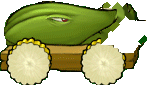
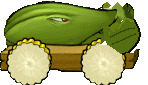
v3.24.2 玉米加农炮：空炮口叶壳封堵 + 立绘收窄后移修占格观感
- 空炮口大洞修补：用同株深橄榄叶壳样式封口（填充+叶脉+原版近黑描边），
  清除悬空碎叶与草地污染像素；卡面上下双窗同步重建
- 立绘显示宽 150→132 并整体后移 8px（渲染层 translateX，逻辑坐标/占格不变），
  yOffset 10→15 补偿轮子贴地；两格 160px 内留边，不再有占三格观感
- 玉米炮弹挂点/发射起点随炮口同步 (x+36, yOffset-12/-16)，overlay 缩放 43×48
- bump ?v= 全量刷新（asset 1790318035），puppeteer 回归 12/12 通过

diff --git a/pvz-web/js/GameLoop.js b/pvz-web/js/GameLoop.js
@@ -1008,44 +1008,44 @@ class Game {
     initUI() {
         // Just define the seeds, don't populate the top bar yet
         this.seeds = [
-            { type: 'sunflower', cost: 50, cooldown: 7.5, img: 'assets/images/Card/Plants/SunFlower.png?v=1790311586' },
-            { type: 'twinsunflower', cost: 150, cooldown: 50, img: 'assets/images/Card/Plants/TwinSunflower.png?v=1790311586' },
-            { type: 'sunshroom', cost: 25, cooldown: 7.5, img: 'assets/images/Card/Plants/SunShroom.png?v=1790311586' },
-            { type: 'peashooter', cost: 100, cooldown: 7.5, img: 'assets/images/Card/Plants/Peashooter.png?v=1790311586' },
-            { type: 'repeater', cost: 200, cooldown: 7.5, img: 'assets/images/Card/Plants/Repeater.png?v=1790311586' },
-            { type: 'threepeater', cost: 300, cooldown: 7.5, img: 'assets/images/Card/Plants/Threepeater.png?v=1790311586' },
-            { type: 'gatlingpea', cost: 250, cooldown: 50, img: 'assets/images/Card/Plants/GatlingPea.png?v=1790311586' },
-            { type: 'snowpea', cost: 175, cooldown: 7.5, img: 'assets/images/Card/Plants/SnowPea.png?v=1790311586' },
-            { type: 'splitpea', cost: 125, cooldown: 7.5, img: 'assets/images/Card/Plants/SplitPea.png?v=1790311586' },
-            { type: 'torchwood', cost: 175, cooldown: 7.5, img: 'assets/images/Card/Plants/Torchwood.png?v=1790311586' },
-            { type: 'wallnut', cost: 50, cooldown: 30, img: 'assets/images/Card/Plants/WallNut.png?v=1790311586' },
-            { type: 'cherrybomb', cost: 150, cooldown: 50, img: 'assets/images/Card/Plants/CherryBomb.png?v=1790311586' },            { type: 'squash', cost: 50, cooldown: 30, img: 'assets/images/Card/Plants/Squash.png?v=1790311586' },
-            { type: 'jalapeno', cost: 125, cooldown: 50, img: 'assets/images/Card/Plants/Jalapeno.png?v=1790311586' },
-            { type: 'potatomine', cost: 25, cooldown: 30, img: 'assets/images/Card/Plants/PotatoMine.png?v=1790311586' },
-            { type: 'chomper', cost: 150, cooldown: 7.5, img: 'assets/images/Card/Plants/Chomper.png?v=1790311586' },
-            { type: 'tallnut', cost: 125, cooldown: 30, img: 'assets/images/Card/Plants/TallNut.png?v=1790311586' },
-            { type: 'puffshroom', cost: 0, cooldown: 7.5, img: 'assets/images/Card/Plants/PuffShroom.png?v=1790311586' },
-            { type: 'fumeshroom', cost: 75, cooldown: 7.5, img: 'assets/images/Card/Plants/FumeShroom.png?v=1790311586' },
-            { type: 'scaredyshroom', cost: 25, cooldown: 7.5, img: 'assets/images/Card/Plants/ScaredyShroom.png?v=1790311586' },
-            { type: 'gloomshroom', cost: 150, cooldown: 7.5, img: 'assets/images/Card/Plants/GloomShroom.png?v=1790311586' },
-            { type: 'spikerock', cost: 125, cooldown: 7.5, img: 'assets/images/Card/Plants/Spikerock.png?v=1790311586' },
-            { type: 'cattail', cost: 225, cooldown: 7.5, img: 'assets/images/Card/Plants/Cattail.png?v=1790311586' },
-            { type: 'melonpult', cost: 300, cooldown: 7.5, img: 'assets/images/Card/Plants/MelonPult.png?v=1790311586' },{ type: 'iceshroom', cost: 75, cooldown: 50, img: 'assets/images/Card/Plants/IceShroom.png?v=1790311586' },
-            { type: 'doomshroom', cost: 125, cooldown: 50, img: 'assets/images/Card/Plants/DoomShroom.png?v=1790311586' },
-            { type: 'spikeweed', cost: 100, cooldown: 7.5, img: 'assets/images/Card/Plants/Spikeweed.png?v=1790311586' },
-            { type: 'garlic', cost: 50, cooldown: 7.5, img: 'assets/images/Card/Plants/Garlic.png?v=1790311586' },
+            { type: 'sunflower', cost: 50, cooldown: 7.5, img: 'assets/images/Card/Plants/SunFlower.png?v=1790318035' },
+            { type: 'twinsunflower', cost: 150, cooldown: 50, img: 'assets/images/Card/Plants/TwinSunflower.png?v=1790318035' },
+            { type: 'sunshroom', cost: 25, cooldown: 7.5, img: 'assets/images/Card/Plants/SunShroom.png?v=1790318035' },
+            { type: 'peashooter', cost: 100, cooldown: 7.5, img: 'assets/images/Card/Plants/Peashooter.png?v=1790318035' },
+            { type: 'repeater', cost: 200, cooldown: 7.5, img: 'assets/images/Card/Plants/Repeater.png?v=1790318035' },
+            { type: 'threepeater', cost: 300, cooldown: 7.5, img: 'assets/images/Card/Plants/Threepeater.png?v=1790318035' },
+            { type: 'gatlingpea', cost: 250, cooldown: 50, img: 'assets/images/Card/Plants/GatlingPea.png?v=1790318035' },
+            { type: 'snowpea', cost: 175, cooldown: 7.5, img: 'assets/images/Card/Plants/SnowPea.png?v=1790318035' },
+            { type: 'splitpea', cost: 125, cooldown: 7.5, img: 'assets/images/Card/Plants/SplitPea.png?v=1790318035' },
+            { type: 'torchwood', cost: 175, cooldown: 7.5, img: 'assets/images/Card/Plants/Torchwood.png?v=1790318035' },
+            { type: 'wallnut', cost: 50, cooldown: 30, img: 'assets/images/Card/Plants/WallNut.png?v=1790318035' },
+            { type: 'cherrybomb', cost: 150, cooldown: 50, img: 'assets/images/Card/Plants/CherryBomb.png?v=1790318035' },            { type: 'squash', cost: 50, cooldown: 30, img: 'assets/images/Card/Plants/Squash.png?v=1790318035' },
+            { type: 'jalapeno', cost: 125, cooldown: 50, img: 'assets/images/Card/Plants/Jalapeno.png?v=1790318035' },
+            { type: 'potatomine', cost: 25, cooldown: 30, img: 'assets/images/Card/Plants/PotatoMine.png?v=1790318035' },
+            { type: 'chomper', cost: 150, cooldown: 7.5, img: 'assets/images/Card/Plants/Chomper.png?v=1790318035' },
+            { type: 'tallnut', cost: 125, cooldown: 30, img: 'assets/images/Card/Plants/TallNut.png?v=1790318035' },
+            { type: 'puffshroom', cost: 0, cooldown: 7.5, img: 'assets/images/Card/Plants/PuffShroom.png?v=1790318035' },
+            { type: 'fumeshroom', cost: 75, cooldown: 7.5, img: 'assets/images/Card/Plants/FumeShroom.png?v=1790318035' },
+            { type: 'scaredyshroom', cost: 25, cooldown: 7.5, img: 'assets/images/Card/Plants/ScaredyShroom.png?v=1790318035' },
+            { type: 'gloomshroom', cost: 150, cooldown: 7.5, img: 'assets/images/Card/Plants/GloomShroom.png?v=1790318035' },
+            { type: 'spikerock', cost: 125, cooldown: 7.5, img: 'assets/images/Card/Plants/Spikerock.png?v=1790318035' },
+            { type: 'cattail', cost: 225, cooldown: 7.5, img: 'assets/images/Card/Plants/Cattail.png?v=1790318035' },
+            { type: 'melonpult', cost: 300, cooldown: 7.5, img: 'assets/images/Card/Plants/MelonPult.png?v=1790318035' },{ type: 'iceshroom', cost: 75, cooldown: 50, img: 'assets/images/Card/Plants/IceShroom.png?v=1790318035' },
+            { type: 'doomshroom', cost: 125, cooldown: 50, img: 'assets/images/Card/Plants/DoomShroom.png?v=1790318035' },
+            { type: 'spikeweed', cost: 100, cooldown: 7.5, img: 'assets/images/Card/Plants/Spikeweed.png?v=1790318035' },
+            { type: 'garlic', cost: 50, cooldown: 7.5, img: 'assets/images/Card/Plants/Garlic.png?v=1790318035' },
             // ===== v3.6.0 经典模式新增 4 植物（数值取 PVZ1 原版；融合模式选卡仍过滤为 15 基础牌，不受影响）=====
-            { type: 'wintermelon', cost: 200, cooldown: 7.5, img: 'assets/images/Card/Plants/WinterMelon.png?v=1790311586' },
-            { type: 'starfruit', cost: 125, cooldown: 7.5, img: 'assets/images/Card/Plants/Starfruit.png?v=1790311586' },
-            { type: 'hypnoshroom', cost: 75, cooldown: 30, img: 'assets/images/Card/Plants/HypnoShroom.png?v=1790311586' },
-            { type: 'pumpkinhead', cost: 125, cooldown: 30, img: 'assets/images/Card/Plants/PumpkinHead.png?v=1790311586' },
+            { type: 'wintermelon', cost: 200, cooldown: 7.5, img: 'assets/images/Card/Plants/WinterMelon.png?v=1790318035' },
+            { type: 'starfruit', cost: 125, cooldown: 7.5, img: 'assets/images/Card/Plants/Starfruit.png?v=1790318035' },
+            { type: 'hypnoshroom', cost: 75, cooldown: 30, img: 'assets/images/Card/Plants/HypnoShroom.png?v=1790318035' },
+            { type: 'pumpkinhead', cost: 125, cooldown: 30, img: 'assets/images/Card/Plants/PumpkinHead.png?v=1790318035' },
             // ===== v3.10.0 投手两兄弟，v3.11.0 调价（破甲 + 黄油定身很值钱，不再按原版 100 阳光卖）=====
             // 抛射物可破甲：越过路障/铁桶/报纸/铁门直接打僵尸本体，护甲不脱落。
             // 玉米投手另有 20% 概率投出黄油（定身 3 秒）。
-            { type: 'cabbagepult', cost: 150, cooldown: 7.5, img: 'assets/images/Card/Plants/CabbagePult.png?v=1790311586' },
-            { type: 'kernelpult', cost: 175, cooldown: 7.5, img: 'assets/images/Card/Plants/KernelPult.png?v=1790311586' },
+            { type: 'cabbagepult', cost: 150, cooldown: 7.5, img: 'assets/images/Card/Plants/CabbagePult.png?v=1790318035' },
+            { type: 'kernelpult', cost: 175, cooldown: 7.5, img: 'assets/images/Card/Plants/KernelPult.png?v=1790318035' },
             // ===== v3.24.0 植物盲盒：500 阳光，种下随机开出"经典冒险+融合进化"全植物池中的一株 =====
-            { type: 'plantbox', cost: 500, cooldown: 5, img: 'assets/images/Card/Plants/PlantBox.png?v=1790311586' }
+            { type: 'plantbox', cost: 500, cooldown: 5, img: 'assets/images/Card/Plants/PlantBox.png?v=1790318035' }
         ];
         // The top bar will be populated in startGame() after selection
     }
@@ -1087,7 +1087,7 @@ class Game {
             { a: 'snowpea', b: 'wallnut', result: '寒冰坚果', img: 'assets/images/Plants/WallNut/WallNut.gif', filter: 'hue-rotate(180deg) saturate(1.5) brightness(1.2)', css: false },
             { a: 'peashooter', b: 'cherrybomb', result: '樱桃射手', img: 'assets/images/Plants/Peashooter/Peashooter.gif', filter: 'hue-rotate(-45deg) saturate(2.0)', css: false },
             { a: 'sunflower', b: 'doomshroom', result: '毁灭向日葵', img: 'assets/images/Plants/SunFlower/SunFlower1.gif', filter: 'grayscale(0.8) brightness(0.6) sepia(1) hue-rotate(240deg) saturate(3)', css: false },
-            { a: 'melonpult', b: 'iceshroom', result: '冰西瓜投手', img: 'assets/images/Plants/WinterMelon/WinterMelon.png?v=1790311586', css: false },
+            { a: 'melonpult', b: 'iceshroom', result: '冰西瓜投手', img: 'assets/images/Plants/WinterMelon/WinterMelon.png?v=1790318035', css: false },
             { a: 'repeater', b: 'spikeweed', result: '猫尾草', img: 'assets/images/Plants/Cattail/Cattail.gif', css: false },
             { a: 'fumeshroom', b: 'fumeshroom', result: '忧郁菇', img: 'assets/images/Plants/GloomShroom/GloomShroom.gif', css: false },
             { a: 'spikeweed', b: 'spikeweed', result: '钢地刺', img: 'assets/images/Plants/Spikerock/Spikerock.gif', css: false },
@@ -1097,16 +1097,16 @@ class Game {
             { a: 'splitpea', b: 'sunflower', result: '杨桃', img: 'assets/images/Plants/Starfruit/Starfruit.gif', css: false },
             { a: 'puffshroom', b: 'garlic', result: '魅惑菇', img: 'assets/images/Plants/HypnoShroom/HypnoShroom.gif', css: false },
             { a: 'wallnut', b: 'tallnut', result: '南瓜壳（可套在任意植物上）', img: 'assets/images/Plants/PumpkinHead/PumpkinHead.gif', css: false },
-            { a: 'melonpult', b: 'cattail', result: '西瓜猫尾草', base: 'assets/images/Plants/Cattail/Cattail.gif', over: 'assets/images/Plants/MelonPult/MelonPult.png?v=1790311586', overTransform: 'translate(-5px, -30px) scale(0.7)' },
-            { a: 'wintermelon', b: 'cattail', result: '冰西瓜猫尾草', base: 'assets/images/Plants/Cattail/Cattail.gif', over: 'assets/images/Plants/WinterMelon/WinterMelon.png?v=1790311586', overTransform: 'translate(-5px, -30px) scale(0.7)' },
+            { a: 'melonpult', b: 'cattail', result: '西瓜猫尾草', base: 'assets/images/Plants/Cattail/Cattail.gif', over: 'assets/images/Plants/MelonPult/MelonPult.png?v=1790318035', overTransform: 'translate(-5px, -30px) scale(0.7)' },
+            { a: 'wintermelon', b: 'cattail', result: '冰西瓜猫尾草', base: 'assets/images/Plants/Cattail/Cattail.gif', over: 'assets/images/Plants/WinterMelon/WinterMelon.png?v=1790318035', overTransform: 'translate(-5px, -30px) scale(0.7)' },
             // ===== v3.10.0 以卷心菜投手 / 玉米投手为基础的新融合 =====
             // v3.11.0：下面两条的 overClip / overTransform 与 Plant.js 内的实机分支**完全同步**
             // （此前图鉴写的是旧的"左上角对齐 + 整块上移"版本，与实机不是同一套，图鉴和游戏里长得不一样）
-            { a: 'cabbagepult', b: 'kernelpult', result: '双料投手（3/4 投卷心菜、1/4 投黄油定身 3 秒）', base: 'assets/images/Plants/KernelPult/KernelPult.png?v=1790311586', over: 'assets/images/Plants/CabbagePult/CabbagePult.png?v=1790311586', overClip: 'polygon(0 0, 48% 0, 48% 50%, 0 50%)', overTransform: 'translate(37px, 8px)' },
-            { a: 'cabbagepult', b: 'wallnut', result: '卷心菜堡垒（坚果肉盾 + 继续投掷，4000 耐久）', base: 'assets/images/Plants/WallNut/WallNut.gif', over: 'assets/images/Plants/CabbagePult/CabbagePult.png?v=1790311586', overClip: 'polygon(0 0, 46% 0, 46% 46%, 0 46%)', overTransform: 'translate(26px, -4px)' },
-            { a: 'cabbagepult', b: 'iceshroom', result: '寒冰卷心菜（破甲 + 命中减速 10 秒）', img: 'assets/images/Plants/CabbagePult/CabbagePult.png?v=1790311586', filter: 'brightness(112%) hue-rotate(120deg) saturate(1.7)', css: false },
-            { a: 'kernelpult', b: 'jalapeno', result: '爆米花投手（破甲 + 命中 3×3 溅射）', img: 'assets/images/Plants/KernelPult/KernelPult.png?v=1790311586', filter: 'hue-rotate(-18deg) saturate(1.9) brightness(1.18)', css: false },
-            { a: 'kernelpult', b: 'kernelpult', result: '玉米加农炮（需两株横向相邻 + 第三株融合；占两格，充能后点击开镜、按 M 发射）', img: 'assets/images/Plants/CobCannon/CobCannon.png?v=1790311586', css: false }
+            { a: 'cabbagepult', b: 'kernelpult', result: '双料投手（3/4 投卷心菜、1/4 投黄油定身 3 秒）', base: 'assets/images/Plants/KernelPult/KernelPult.png?v=1790318035', over: 'assets/images/Plants/CabbagePult/CabbagePult.png?v=1790318035', overClip: 'polygon(0 0, 48% 0, 48% 50%, 0 50%)', overTransform: 'translate(37px, 8px)' },
+            { a: 'cabbagepult', b: 'wallnut', result: '卷心菜堡垒（坚果肉盾 + 继续投掷，4000 耐久）', base: 'assets/images/Plants/WallNut/WallNut.gif', over: 'assets/images/Plants/CabbagePult/CabbagePult.png?v=1790318035', overClip: 'polygon(0 0, 46% 0, 46% 46%, 0 46%)', overTransform: 'translate(26px, -4px)' },
+            { a: 'cabbagepult', b: 'iceshroom', result: '寒冰卷心菜（破甲 + 命中减速 10 秒）', img: 'assets/images/Plants/CabbagePult/CabbagePult.png?v=1790318035', filter: 'brightness(112%) hue-rotate(120deg) saturate(1.7)', css: false },
+            { a: 'kernelpult', b: 'jalapeno', result: '爆米花投手（破甲 + 命中 3×3 溅射）', img: 'assets/images/Plants/KernelPult/KernelPult.png?v=1790318035', filter: 'hue-rotate(-18deg) saturate(1.9) brightness(1.18)', css: false },
+            { a: 'kernelpult', b: 'kernelpult', result: '玉米加农炮（需两株横向相邻 + 第三株融合；占两格，充能后点击开镜、按 M 发射）', img: 'assets/images/Plants/CobCannon/CobCannon.png?v=1790318035', css: false }
         ];
         
         const list = document.getElementById('recipe-list');
@@ -1137,8 +1137,8 @@ class Game {
                     'fumeshroom': 'assets/images/Plants/FumeShroom/FumeShroom.gif',
                     'spikeweed': 'assets/images/Plants/Spikeweed/Spikeweed.gif',
                     'tallnut': 'assets/images/Plants/TallNut/TallNut.gif',
-                    'melonpult': 'assets/images/Plants/MelonPult/MelonPult.png?v=1790311586',
-                    'wintermelon': 'assets/images/Plants/WinterMelon/WinterMelon.png?v=1790311586',
+                    'melonpult': 'assets/images/Plants/MelonPult/MelonPult.png?v=1790318035',
+                    'wintermelon': 'assets/images/Plants/WinterMelon/WinterMelon.png?v=1790318035',
                     'cattail': 'assets/images/Plants/Cattail/Cattail.gif',
                     'gloomshroom': 'assets/images/Plants/GloomShroom/GloomShroom.gif',
                     'spikerock': 'assets/images/Plants/Spikerock/Spikerock.gif',
@@ -1148,8 +1148,8 @@ class Game {
                     'starfruit': 'assets/images/Plants/Starfruit/Starfruit.gif',
                     'hypnoshroom': 'assets/images/Plants/HypnoShroom/HypnoShroom.gif',
                     'pumpkinhead': 'assets/images/Plants/PumpkinHead/PumpkinHead.gif',
-                    'cabbagepult': 'assets/images/Plants/CabbagePult/CabbagePult.png?v=1790311586',
-                    'kernelpult': 'assets/images/Plants/KernelPult/KernelPult.png?v=1790311586'
+                    'cabbagepult': 'assets/images/Plants/CabbagePult/CabbagePult.png?v=1790318035',
+                    'kernelpult': 'assets/images/Plants/KernelPult/KernelPult.png?v=1790318035'
                 };
                 return map[t] || '';
             };
@@ -2125,7 +2125,7 @@ class Game {
                           : vType === 'zombie' ? 'Vase_Zombie.png'
                           : 'Vase_Question.png';
             const img = document.createElement('img');
-            img.src = 'assets/images/Vase/' + sprite + '?v=1790311586'; // v= 占位,bump_version 替换为新 cache-buster
+            img.src = 'assets/images/Vase/' + sprite + '?v=1790318035'; // v= 占位,bump_version 替换为新 cache-buster
             img.className = 'entity vase-entity';
             img.style.pointerEvents = 'none';
             if (isGolden) img.style.filter = 'drop-shadow(0 0 7px rgba(255, 210, 60, 0.95))'; // 金罐常驻金光
@@ -2192,7 +2192,7 @@ class Game {
                     v.pumpkinHp = 4000;
                     v.pumpkinMaxHp = 4000;
                     const ov = document.createElement('img');
-                    ov.src = 'assets/images/Plants/PumpkinHead/shield_full.png?v=1790311586'; // v= 占位,bump_version 替换
+                    ov.src = 'assets/images/Plants/PumpkinHead/shield_full.png?v=1790318035'; // v= 占位,bump_version 替换
                     ov.className = 'entity vase-pumpkin';
                     ov.style.pointerEvents = 'none';
                     ov.style.width = '97px';
@@ -2209,7 +2209,7 @@ class Game {
                     v.pumpkinEl = ov;
                     // v3.13.2：背壁层画在罐子身后，壳顶洞口里看到的是南瓜内壁而非草地
                     const back = document.createElement('img');
-                    back.src = 'assets/images/Plants/PumpkinHead/Pumpkin_back.gif?v=1790311586'; // v= 占位,bump_version 替换
+                    back.src = 'assets/images/Plants/PumpkinHead/Pumpkin_back.gif?v=1790318035'; // v= 占位,bump_version 替换
                     back.className = 'entity vase-pumpkin-back';
                     back.style.pointerEvents = 'none';
                     back.style.width = '97px';

diff --git a/pvz-web/js/entities/Plant.js b/pvz-web/js/entities/Plant.js
@@ -154,34 +154,36 @@ class Plant extends Entity {
             stat.hp = 300;
             stat.fireRate = 1.0;
             stat.fireTimer = 0;
-            stat.src = 'assets/images/Plants/MelonPult/MelonPult.png?v=1790311586';
+            stat.src = 'assets/images/Plants/MelonPult/MelonPult.png?v=1790318035';
         } else if (type === 'wintermelon') {
             stat.hp = 300;
             stat.fireRate = 1.0;
             stat.fireTimer = 0;
-            stat.src = 'assets/images/Plants/WinterMelon/WinterMelon.png?v=1790311586';
+            stat.src = 'assets/images/Plants/WinterMelon/WinterMelon.png?v=1790318035';
         } else if (type === 'cabbagepult') {
             // 卷心菜投手（v3.10.0）：PVZ1 原版数值——100 阳光 / 40 伤害 / 抛射。
             // 投掷物可"破甲"：越过路障·铁桶·报纸·铁门直接打僵尸本体，护甲不脱落。
             stat.hp = 300;
             stat.fireRate = 1.4;
             stat.fireTimer = 0;
-            stat.src = 'assets/images/Plants/CabbagePult/CabbagePult.png?v=1790311586';
+            stat.src = 'assets/images/Plants/CabbagePult/CabbagePult.png?v=1790318035';
         } else if (type === 'kernelpult') {
             // 玉米投手（v3.10.0）：100 阳光 / 玉米粒 20 伤害；20% 概率改投黄油（40 伤害 + 定身 3 秒）。
             // 与卷心菜投手同享破甲规则。
             stat.hp = 300;
             stat.fireRate = 1.4;
             stat.fireTimer = 0;
-            stat.src = 'assets/images/Plants/KernelPult/KernelPult.png?v=1790311586';
+            stat.src = 'assets/images/Plants/KernelPult/KernelPult.png?v=1790318035';
             stat.butterChance = 0.2;
         } else if (type === 'cobcannon') {
             // 玉米加农炮（v3.24.0）：PVZ1 原版 Cob Cannon——三株玉米投手合体，占两格。
             // 平时嘴里没有炮；充能 25s 结束后嘴里出现玉米炮弹；
             // 点击它出现瞄准镜（跟随鼠标），按 M 键向准星位置发射（见 GameLoop.enterCobAim）。
             stat.hp = 600;
-            stat.src = 'assets/images/Plants/CobCannon/CobCannon.png?v=1790311586';
-            stat.yOffset = 10;   // v3.24.1 立绘 148x85（显示宽150→高86），+10 保持轮子贴地
+            stat.src = 'assets/images/Plants/CobCannon/CobCannon.png?v=1790318035';
+            // v3.24.2 立绘 148×85（炮口已用叶壳封住），显示宽 132——两格 160px 内留边，
+            // 修"看起来占三格"；+15 补偿缩小后轮子离地
+            stat.yOffset = 15;
             stat.chargeTime = 25;
             stat.chargeTimer = 25;
             stat.chargeReady = false;
@@ -208,7 +210,7 @@ class Plant extends Entity {
             // 不攻击、不产太阳，仅在种植瞬间触发 lightUpNeighbors 照亮周围一圈罐子。
             // 0.gif 250×237 透明大画布，比 Plantern.gif 20 帧夜版更适合白天场地。
             stat.hp = 300;
-            stat.src = 'assets/images/Plants/Plantern/0.gif?v=1790311586';
+            stat.src = 'assets/images/Plants/Plantern/0.gif?v=1790318035';
             stat.yOffset = 0;
         }
 
@@ -430,9 +432,12 @@ class Plant extends Entity {
         // 爆炸"的常驻融合植物不自动引爆，只按普通植物运作。
         this.autoExplode = (type === 'cherrybomb' || type === 'jalapeno' || type === 'iceshroom' || type === 'doomshroom' || type === 'fusion_frostbomb');
         
-        // v3.24.0 玉米加农炮：立绘 200×170，显示宽 150（占两格 160px 内）
+        // v3.24.0 玉米加农炮：立绘 148×85，显示宽 132（两格内留边，观感不再越格）
         if (type === 'cobcannon') {
-            this.element.style.width = '150px';
+            this.element.style.width = '132px';
+            // v3.24.2 整体后移 8px：只做渲染偏移，走 setTransform 保留 translate(-50%,-50%) 居中基准，
+            // 逻辑坐标（this.x / 占格 / 判定）不动
+            this.setTransform('translateX(-8px)');
         }
         // 樱桃射手：每 10 次攻击发射一颗小樱桃炸弹（伤害=原版樱桃炸弹一半=900），
         // 普通子弹为樱桃红色。计数从 0 开始。
@@ -697,9 +702,10 @@ class Plant extends Entity {
             if (!this._cobShellEl) {
                 const el = document.createElement('img');
                 // v3.24.1：装填玉米用原版图鉴里抠出的整根玉米（带根部），从炮口探出
-                el.src = 'assets/images/Plants/CobCannon/CobLoaded.png?v=1790311586';
+                el.src = 'assets/images/Plants/CobCannon/CobLoaded.png?v=1790318035';
                 // 裸 img 必须自带 translate(-50%,-50%) 居中基准（与 fusionOverlay 同一教训）
-                el.style.cssText = 'position:absolute;width:48px;height:54px;object-fit:contain;pointer-events:none;transform:translate(-50%,-50%);';
+                // v3.24.2 尺寸随立绘缩放同步：43×48（0.892×）
+                el.style.cssText = 'position:absolute;width:43px;height:48px;object-fit:contain;pointer-events:none;transform:translate(-50%,-50%);';
                 this.game.entityLayer.appendChild(el);
                 this._cobShellEl = el;
             }
@@ -714,7 +720,7 @@ class Plant extends Entity {
         this.chargeReady = false;
         this.chargeTimer = this.chargeTime;
         this._showCobShell(false);
-        const proj = new Projectile(this.game, this.x + 45, this.y + this.yOffset - 18, this.row, 'cob', null);
+        const proj = new Projectile(this.game, this.x + 36, this.y + this.yOffset - 16, this.row, 'cob', null);
         proj.setupLobToPoint(tx, ty);
         this.game.entities.push(proj);
     }
@@ -739,9 +745,9 @@ class Plant extends Entity {
                 }
             }
             if (this._cobShellEl) {
-                // v3.24.1 炮口在炮管右端（立绘 148×85 原版整株），玉米从炮口探出垂下
-                this._cobShellEl.style.left = (this.x + 50) + 'px';
-                this._cobShellEl.style.top = (this.y + this.yOffset - 14) + 'px';
+                // v3.24.2 炮口挂点随立绘收窄+后移同步：叶壳炮口在 (x+36, yOffset-12)
+                this._cobShellEl.style.left = (this.x + 36) + 'px';
+                this._cobShellEl.style.top = (this.y + this.yOffset - 12) + 'px';
                 this._cobShellEl.style.zIndex = String(Math.floor(this.y) + 2);
             }
             return;

diff --git a/pvz-web/js/entities/Projectile.js b/pvz-web/js/entities/Projectile.js
@@ -36,8 +36,8 @@ class Projectile extends Entity {
             // 旧素材是从 MelonPult 整株立绘 flood-fill 出的 50×40 残片 —— 右侧被齐边切掉、
             // 右下被瓜篮挖空，这就是玩家看到的"贴图不完整"。
             this.element.src = type === 'melon'
-                ? 'assets/images/Plants/MelonPult/Melon.png?v=1790311586'
-                : 'assets/images/Plants/MelonPult/WinterMelon.png?v=1790311586';
+                ? 'assets/images/Plants/MelonPult/Melon.png?v=1790318035'
+                : 'assets/images/Plants/MelonPult/WinterMelon.png?v=1790318035';
             this.setTransform();   // v3.10.0：裸写 transform 会顶掉 .entity 的居中基准（贴图偏移半个身位）
             // 注意：不能再加 border-radius:50% —— 那会把完整的椭圆瓜体按内切圆再裁一圈
             this.damage = 60;
@@ -47,7 +47,7 @@ class Projectile extends Entity {
             // 子弹取自 TSR 原版 Projectiles 图集（行标签 "Cabbage"）：30×27 绿色卷心菜。
             // 破甲：命中时以 {pierce:true} 结算 → 越过路障/铁桶/报纸/铁门直接打本体，护甲不脱落
             // （见 CollisionManager.update 与 Zombie.takeDamage）。
-            this.element.src = 'assets/images/Plants/CabbagePult/Cabbage.png?v=1790311586';
+            this.element.src = 'assets/images/Plants/CabbagePult/Cabbage.png?v=1790318035';
             // v3.11.0 尺寸校准：原图 30×27 投出来只有"米粒大"，与立绘篮筐里那颗（实测 35×29）
             // 不成比例 → 放大到 34×31 与篮内弹药等大（用 width/height，不碰 transform 以免顶掉居中基准）
             this.element.style.width = '34px';
@@ -64,7 +64,7 @@ class Projectile extends Entity {
             // ===== v3.10.0 玉米投手 =====
             // 子弹取自原版图集（行标签 "Kernel"）：淡黄玉米粒。同样走抛物线 + 破甲。
             // 爆米花（融合：玉米投手+火爆辣椒）：焦色更大颗，命中 3×3 溅射。
-            this.element.src = 'assets/images/Plants/KernelPult/Kernel.png?v=1790311586';
+            this.element.src = 'assets/images/Plants/KernelPult/Kernel.png?v=1790318035';
             // v3.11.0 尺寸校准：原图 16×17 投出来只有"米粒大"；立绘篮筐里那颗实测 19×20，
             // 所以放大到 22×23 —— 略大于篮内单颗，空中飞行时才有存在感（爆米花更大一颗 30×30）。
             // 用 width/height 而不是 transform，避免顶掉 .entity 的 translate(-50%,-50%) 居中基准。
@@ -86,7 +86,7 @@ class Projectile extends Entity {
             // 原版 Cob（TSR Projectiles 图集行标签 "Cob"）：161×76 完整玉米炮弹。
             // 飞向固定坐标点（不锁定僵尸），落地 3×3 范围 1800 炸弹伤害（见 _cobExplode）。
             // 注意：这里不 setupLob——fireCob() 随后调用 setupLobToPoint(tx,ty) 指定落点。
-            this.element.src = 'assets/images/Plants/CobCannon/Cob.png?v=1790311586';
+            this.element.src = 'assets/images/Plants/CobCannon/Cob.png?v=1790318035';
             this.element.style.width = '56px';
             this.element.style.height = '27px';
             this.element.style.objectFit = 'contain';
@@ -101,7 +101,7 @@ class Projectile extends Entity {
             // 原版图集行标签 "Butter" 的黄油块；命中后定身 3 秒（见 CollisionManager）。
             // v3.11.0：与放大后的玉米粒同一档体积，46×48 → 28×29
             // （用 width/height，不碰 transform，以免破坏 .entity 的 translate(-50%,-50%) 居中基准）。
-            this.element.src = 'assets/images/Plants/KernelPult/Butter.png?v=1790311586';
+            this.element.src = 'assets/images/Plants/KernelPult/Butter.png?v=1790318035';
             this.element.style.width = '28px';
             this.element.style.height = '29px';
             this.element.style.objectFit = 'contain';
@@ -114,12 +114,12 @@ class Projectile extends Entity {
             this.damage = 20;
             this.speed = 400;
         } else if (type === 'cattail_melon') {
-            this.element.src = 'assets/images/Plants/MelonPult/Melon_small.png?v=1790311586';
+            this.element.src = 'assets/images/Plants/MelonPult/Melon_small.png?v=1790318035';
             this.setTransform('scale(0.8)');
             this.damage = 60;
             this.speed = 400;
         } else if (type === 'cattail_wintermelon') {
-            this.element.src = 'assets/images/Plants/MelonPult/WinterMelon_small.png?v=1790311586';
+            this.element.src = 'assets/images/Plants/MelonPult/WinterMelon_small.png?v=1790318035';
             this.setTransform('scale(0.8)');
             this.damage = 60;
             this.speed = 400;

diff --git a/pvz-web/index.html b/pvz-web/index.html
@@ -4,7 +4,7 @@
     <meta charset="UTF-8">
     <meta name="viewport" content="width=device-width, initial-scale=1.0">
     <title>Plants vs Zombies - Web Clone</title>
-    <link rel="stylesheet" href="css/style.css?v=1790311586">
+    <link rel="stylesheet" href="css/style.css?v=1790318035">
 </head>
 <body>
     <div id="game-container">
@@ -336,16 +336,16 @@
                 });
         })();
     </script>
-    <script src="js/InputManager.js?v=1790311586"></script>
-    <script src="js/Board.js?v=1790311586"></script>
-    <script src="js/entities/Entity.js?v=1790311586"></script>
-    <script src="js/entities/Plant.js?v=1790311586"></script>
-    <script src="js/entities/Zombie.js?v=1790311586"></script>
-    <script src="js/entities/Projectile.js?v=1790311586"></script>
-    <script src="js/entities/Sun.js?v=1790311586"></script>
-    <script src="js/managers/WaveManager.js?v=1790311586"></script>
-    <script src="js/managers/CollisionManager.js?v=1790311586"></script>
-    <script src="js/managers/EventManager.js?v=1790311586"></script>
-    <script src="js/GameLoop.js?v=1790311586"></script>
+    <script src="js/InputManager.js?v=1790318035"></script>
+    <script src="js/Board.js?v=1790318035"></script>
+    <script src="js/entities/Entity.js?v=1790318035"></script>
+    <script src="js/entities/Plant.js?v=1790318035"></script>
+    <script src="js/entities/Zombie.js?v=1790318035"></script>
+    <script src="js/entities/Projectile.js?v=1790318035"></script>
+    <script src="js/entities/Sun.js?v=1790318035"></script>
+    <script src="js/managers/WaveManager.js?v=1790318035"></script>
+    <script src="js/managers/CollisionManager.js?v=1790318035"></script>
+    <script src="js/managers/EventManager.js?v=1790318035"></script>
+    <script src="js/GameLoop.js?v=1790318035"></script>
 </body>
 </html>

diff --git a/pvz-web/js/InputManager.js b/pvz-web/js/InputManager.js
@@ -206,7 +206,7 @@ class InputManager {
 
             // v3.24.0 植物盲盒：拖拽图直接用原版问号罐
             if (type === 'plantbox') {
-                this.dragGhost.style.backgroundImage = "url('assets/images/Plants/PlantBox/GiftBox.png?v=1790311586')";
+                this.dragGhost.style.backgroundImage = "url('assets/images/Plants/PlantBox/GiftBox.png?v=1790318035')";
                 this.dragGhost.style.width = '46px';
                 this.dragGhost.style.height = '64px';
                 this.dragGhost.style.backgroundSize = 'contain';
@@ -218,8 +218,8 @@ class InputManager {
             const isMelonSprite = imgName === 'MelonPult/MelonPult' || imgName === 'WinterMelon/WinterMelon'
                 || imgName === 'CabbagePult/CabbagePult' || imgName === 'KernelPult/KernelPult';
             const url = isMelonSprite
-                ? `assets/images/Plants/${imgName}.png?v=1790311586`
-                : `assets/images/Plants/${imgName}.gif?v=1790311586`;
+                ? `assets/images/Plants/${imgName}.png?v=1790318035`
+                : `assets/images/Plants/${imgName}.gif?v=1790318035`;
             this.dragGhost.style.backgroundImage = `url('${url}')`;
 
             // v3.20.0：倭瓜立绘画布 100×226（身体只占底部 68×82），60×60 contain 后
